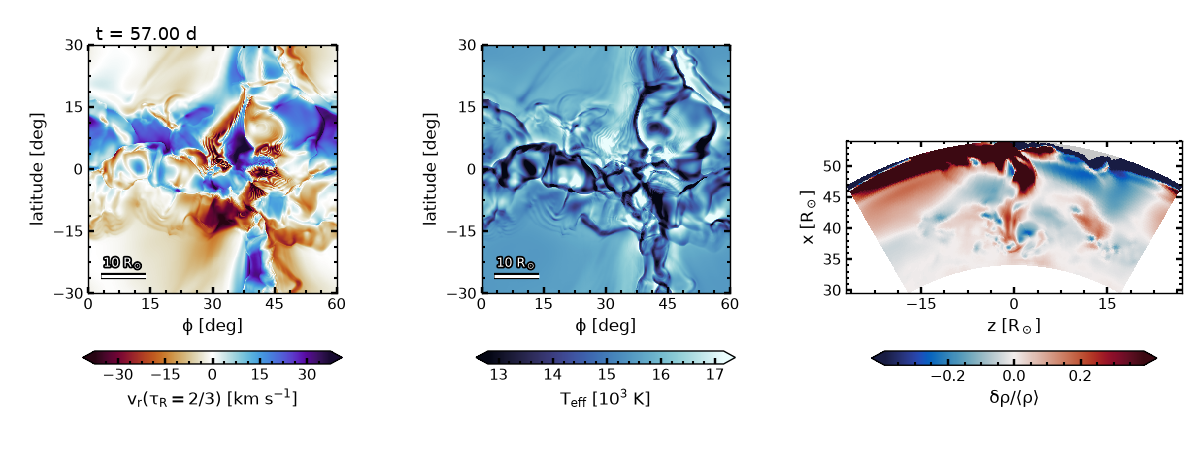
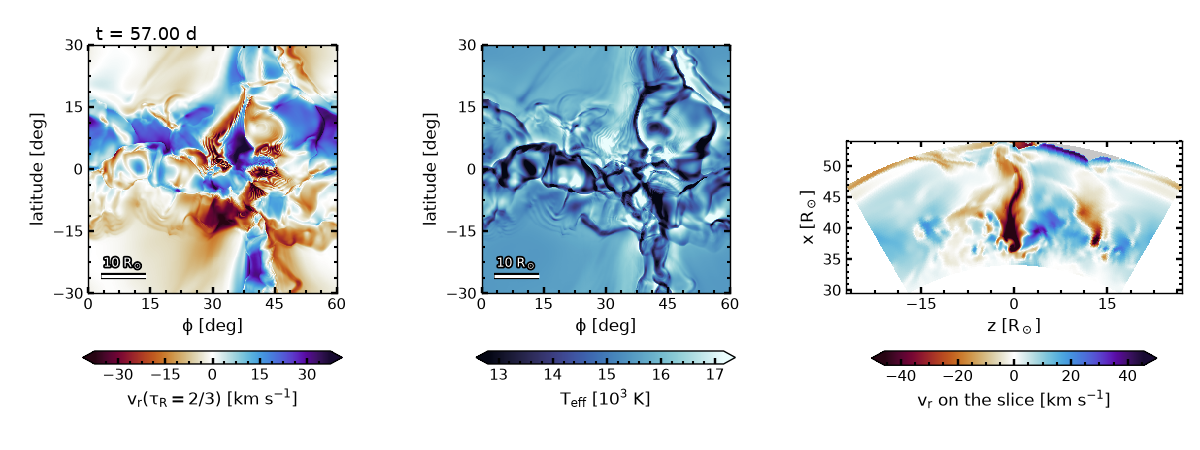
DOCFIG: right panel v_r on the slice (USER, orion 27zb), five figures and posters, CAPTIONS

Changed region(s): [[0.7092, 0.3111, 0.9867, 0.6222], [0.7092, 0.7778, 0.9558, 0.9022]]

diff --git a/docs/handover/caltech_results/DOCFIG/docfig.py b/docs/handover/caltech_results/DOCFIG/docfig.py
@@ -22,9 +22,10 @@ def load(s, f):
     if s == 'bsg':
         n = re.search(r'red_(\d+)', f).group(1); q = np.load(P + 'bsg/pipe/cache/view/int2_%s.npz' % n)
         d['t'] = float(z['time']) / 86400; d['vr'] = z['s36_vr'].T / 1e5; d['te'] = np.where(q['fr_own'].T > 0, (np.maximum(q['fr_own'].T, 1e-99) / SIG) ** 0.25, np.nan)     # [theta, phi]
-        d['x1'] = np.degrees(z['x3f']); d['x2'] = 90 - np.degrees(z['x2f']); d['rf'] = z['x1f'] / RS; d['ang'] = z['x2f']; rho = z['p0_rho']; d['sl'] = np.ma.masked_where(rho <= 1.5 * C[s]['fl'], rho / z['rho_sh'] - 1); d['lab'] = 'r = 40.7 R_sun'; d['slk'] = 'theta'
+        d['x1'] = np.degrees(z['x3f']); d['x2'] = 90 - np.degrees(z['x2f']); d['rf'] = z['x1f'] / RS; d['ang'] = z['x2f']; rho = z['p0_rho']; d['sl'] = np.ma.masked_where(rho <= 1.5 * C[s]['fl'], rho / z['rho_sh'] - 1); d['svr'] = np.ma.masked_array(z['p0_vr'] / 1e5, mask=np.ma.getmaskarray(d['sl'])); d['lab'] = 'r = 40.7 R_sun'; d['slk'] = 'theta'
     else:
         c = C[s]; d['t'] = float(z['t']) / 86400; d['vr'] = z['sh_vr_' + c['tag']][0].T; d['te'] = z['sh_Teff'][0].T; d['x1'] = np.degrees(z['ph_f']); d['x2'] = 90 - np.degrees(z['th_f']); rho = 10 ** z['eqa_lrho']; d['sl'] = np.ma.masked_where((rho <= 1.5 * c['fl']) | z['eqa_Tfl'].astype(bool) * 0, rho / z['rho'][:rho.shape[1]] - 1); d['rf'] = z['rf'][:rho.shape[1] + 1] / RS; d['ang'] = z['eqa_phi']; d['slk'] = 'phi'; d['rph_med'] = float(z['Rph_med'])
+    if s != 'bsg': d['svr'] = np.ma.masked_array(z['eqa_vr'].astype(float), mask=np.ma.getmaskarray(d['sl']))   # 27zb: v_r [km/s] on the same slice, floor gas masked as the density slice
     return ph23(s, f, d)
 def ph23(s, f, d):
     # 26z: v_r at tau_R = 2/3 of each column (p23.py), one definition for all stars; bsg also takes its T_eff from the same point
@@ -33,6 +34,9 @@ def ph23(s, f, d):
     if s == 'bsg': d['te'] = z['te'].T.astype(float)
     else: d['te_d'] = float(np.nanmax(abs(z['te'].T - d['te']) / d['te']))
     return d
+def srange(s, d):
+    # the radial cells drawn in the slice panel (as draw())
+    rr = C[s]['rr']; sc = 1 if s == 'bsg' else C[s]['rph'] / RS; rf = np.asarray(d['rf']); i0 = int(np.searchsorted(rf, rr[0] * sc)); i1 = min(len(rf) - 1, int(np.searchsorted(rf, rr[1] * sc))); return slice(i0, i1)
 def zone(s, d):
     """slice cells below 0.97 R_ph (median, this dump) and inside the slice range"""
     sc = 1 if s == 'bsg' else C[s]['rph'] / RS; rm = 0.5 * (np.asarray(d['rf'][1:]) + np.asarray(d['rf'][:-1])); top = 51.0 if s == 'bsg' else 0.97 * d['rph_med'] / RS
@@ -41,13 +45,14 @@ def zone(s, d):
 TEFIX = dict(t9l62=(4900., 10000.), t9mlt=(9000., 29500.))   # USER 11-25: brighter surfaces; same as the 3-D movies
 def lims(s, pick=None):
     f = files(s); idx = pick or list(range(0, len(f), max(1, len(f) // 40))) + [len(f) - 1]
-    V, T, S = [], [], []
+    V, T, S, SV = [], [], [], []
     for i in idx:
         d = load(s, f[i])
         if d['t'] < 0.05: continue
         V.append(np.nanpercentile(abs(d['vr']), 99.5)); T.append(np.nanpercentile(d['te'], [2, 98])); ok = (d['rf'][1:] / (C[s]['rph'] / RS) > 0) if s != 'bsg' else True
-        rr = zone(s, d); q = np.ma.masked_invalid(d['sl'][:, rr]); S.append(np.nanpercentile(abs(q.compressed()), 99))
+        rr = zone(s, d); q = np.ma.masked_invalid(d['sl'][:, rr]); S.append(np.nanpercentile(abs(q.compressed()), 99)); SV.append(np.abs(np.ma.masked_invalid(d['svr'][:, srange(s, d)]).compressed()))
     L = dict(v=float(np.percentile(V, 80)), te=[float(np.percentile([x[0] for x in T], 10)), float(np.percentile([x[1] for x in T], 90))], s=float(min(1.0, np.percentile(S, 60) * 0.8)))
+    L['sv'] = float(np.percentile(np.concatenate(SV), 99))
     if s in TEFIX: L['te'] = list(TEFIX[s])
     return L
 BARS = dict(bsg=10., m35mms=1., m35zams=0.1, t9l62=100., t9mlt=10.)                       # R_sun; lateral scale bar at the median photosphere radius of the dump
@@ -69,8 +74,8 @@ def draw(s, d, L, fn, stamp=True):
     a = fig.add_subplot(gs[0, 2]); rr = C[s]['rr']; sc = 1 if s == 'bsg' else c['rph'] / RS; rf = np.asarray(d['rf']); i0 = int(np.searchsorted(rf, rr[0] * sc)); i1 = min(len(rf) - 1, int(np.searchsorted(rf, rr[1] * sc)))
     if s == 'bsg': A = d['ang']; R, TH = np.meshgrid(rf[i0:i1 + 1], A); X, Y = R * np.sin(TH), R * np.cos(TH); xl, yl = r'$\rm x\ [R_\odot]$', r'$\rm z\ [R_\odot]$'
     else: A = d['ang']; R, TH = np.meshgrid(rf[i0:i1 + 1], A); X, Y = R * np.cos(TH), R * np.sin(TH); xl, yl = r'$\rm x\ [R_\odot]$', r'$\rm y\ [R_\odot]$'
-    pc = a.pcolormesh(Y if s == 'bsg' else X, X if s == 'bsg' else Y, d['sl'][:, i0:i1], cmap=cm_(BAL), vmin=-L['s'], vmax=L['s'], shading='flat', rasterized=True); a.set_aspect('equal'); a.set_xlabel(xl if s != 'bsg' else r'$\rm z\ [R_\odot]$'); a.set_ylabel(yl if s != 'bsg' else r'$\rm x\ [R_\odot]$'); a.xaxis.set_major_locator(MaxNLocator(5)); a.yaxis.set_major_locator(MaxNLocator(5))
-    cb = fig.colorbar(pc, ax=a, orientation='horizontal', shrink=0.85, pad=0.16, extend='both'); cb.set_label(r'$\rm \delta\rho/\langle\rho\rangle$'); cb.locator = MaxNLocator(5); cb.update_ticks()
+    pc = a.pcolormesh(Y if s == 'bsg' else X, X if s == 'bsg' else Y, d['svr'][:, i0:i1], cmap=cm_(FUS), vmin=-L['sv'], vmax=L['sv'], shading='flat', rasterized=True); a.set_aspect('equal'); a.set_xlabel(xl if s != 'bsg' else r'$\rm z\ [R_\odot]$'); a.set_ylabel(yl if s != 'bsg' else r'$\rm x\ [R_\odot]$'); a.xaxis.set_major_locator(MaxNLocator(5)); a.yaxis.set_major_locator(MaxNLocator(5))
+    cb = fig.colorbar(pc, ax=a, orientation='horizontal', shrink=0.85, pad=0.16, extend='both'); cb.set_label(r'$\rm v_r\ on\ the\ slice\ [km\ s^{-1}]$'); cb.locator = MaxNLocator(5); cb.update_ticks()
     fig.savefig(fn); plt.close(fig)
 def frames(s):
     L = json.load(open(O + 'work/lim_%s.json' % s)); F = files(s); D = O + 'frames23/' + s; os.makedirs(D, exist_ok=True); n = len(F)
